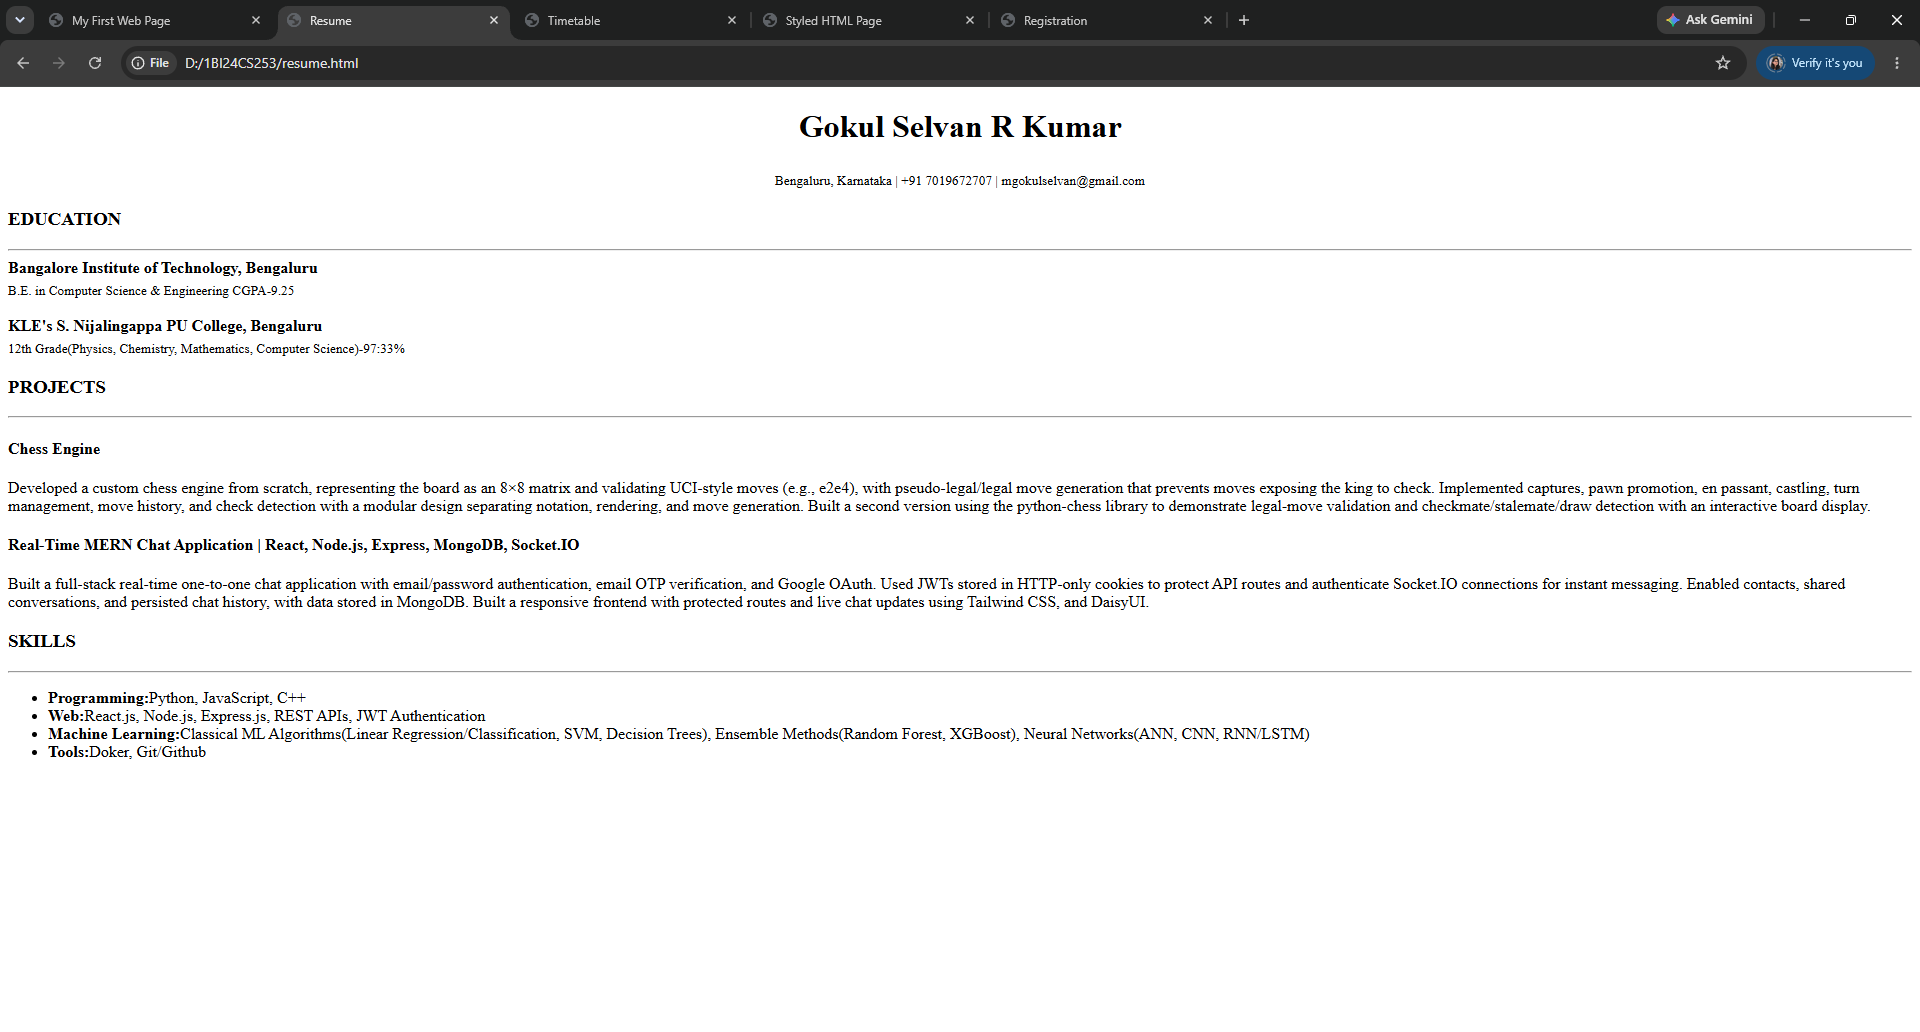
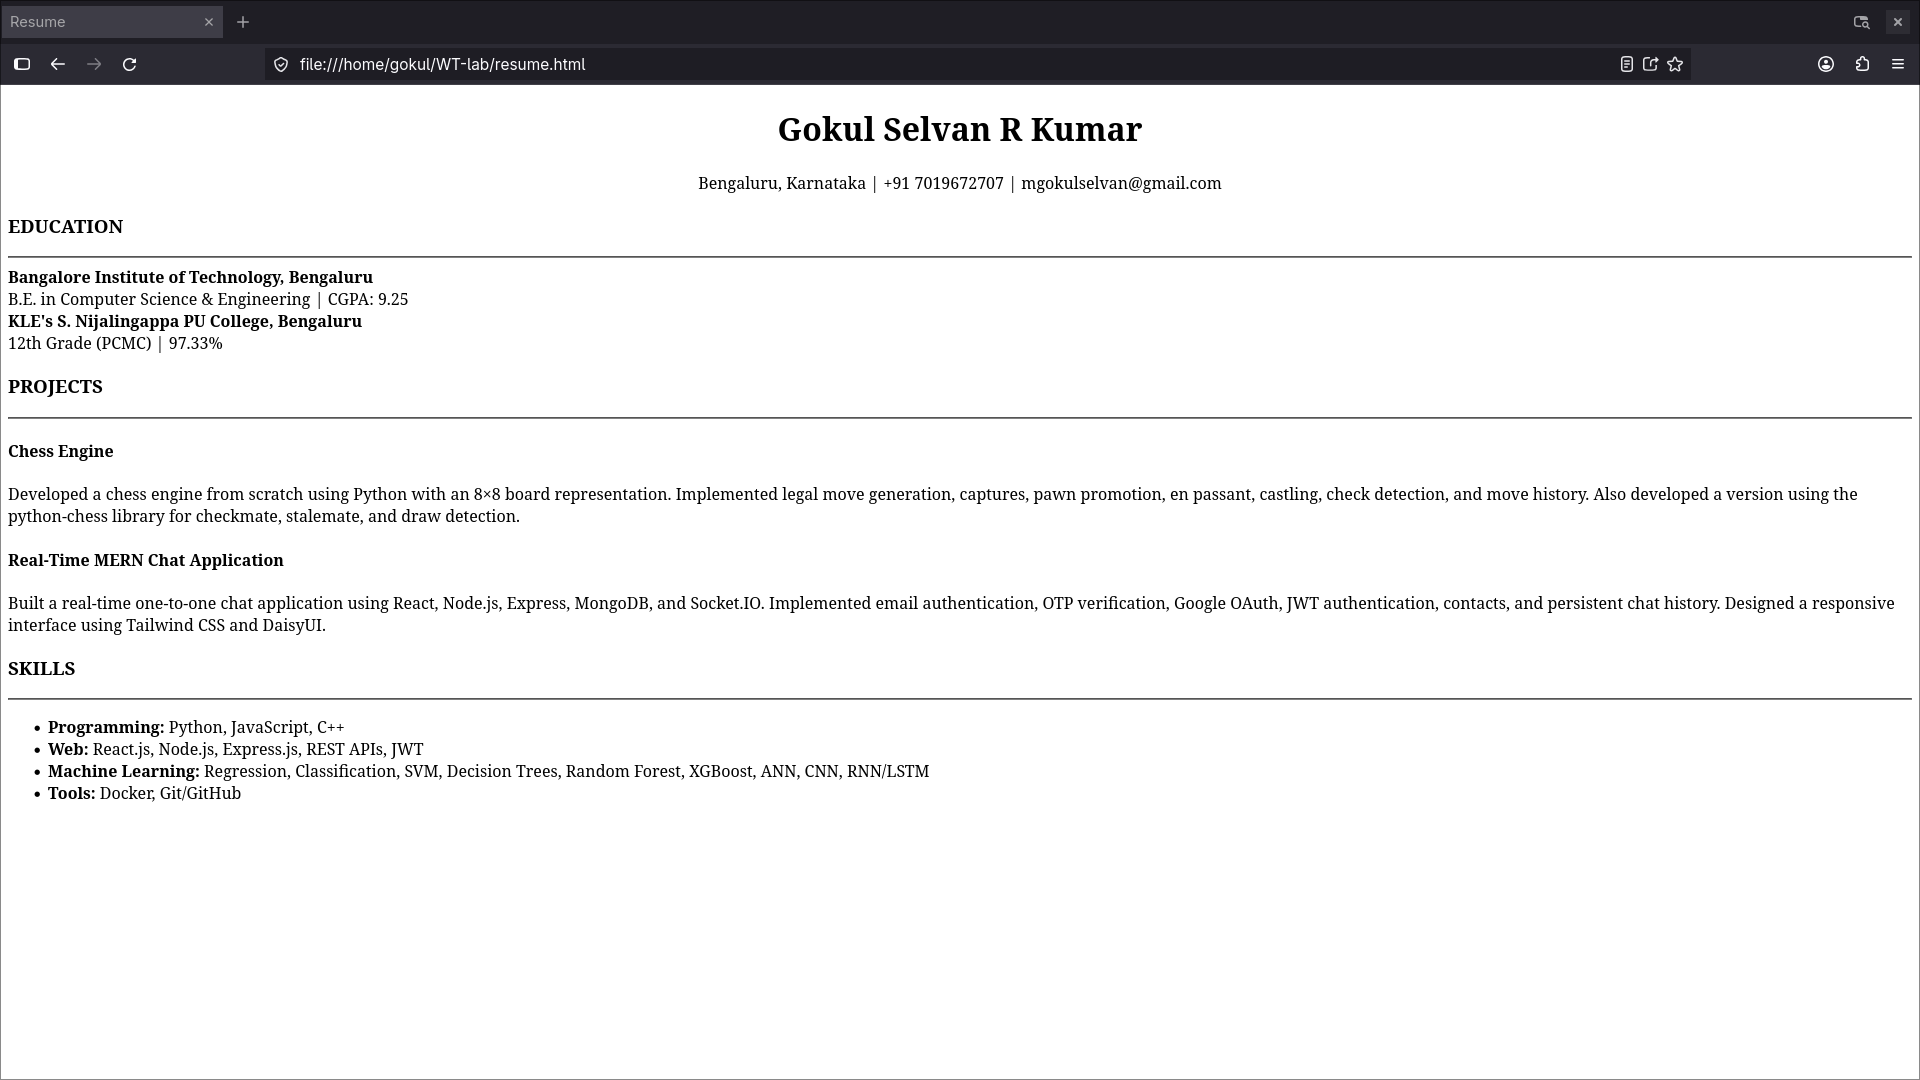
updated till lab 5

diff --git a/resume.html b/resume.html
@@ -1,51 +1,46 @@
-<!DOCTYPE html>
-<html lang="en">
+<html>
 <head>
-    <meta charset="UTF-8">
-    <meta name="viewport" content="width=device-width, initial-scale=1.0">
     <title>Resume</title>
 </head>
 <body>
-	<center>
-		<h1>Gokul Selvan R Kumar</h1>
-		<sub>Bengaluru, Karnataka | +91 7019672707 | mgokulselvan@gmail.com</sub>
-	</center>
-	<h3>EDUCATION</h3>
-	<hr/>
-	<b>Bangalore Institute of Technology, Bengaluru</b><br>
-	<sub>B.E. in Computer Science & Engineering </sub>
-	<sub>CGPA-9.25</sub><br/><br/>
-	<b>KLE's S. Nijalingappa PU College, Bengaluru</b><br>
-	<sub>12th Grade(Physics, Chemistry, Mathematics, Computer Science)-97:33%</sub>
 
-	<h3>PROJECTS</h3>
-	<hr/>
-	<h4>Chess Engine</h4>
-	<p>
-	Developed a custom chess engine from scratch, representing the board as an 8×8 matrix and validating UCI-style moves (e.g.,
-	e2e4), with pseudo-legal/legal move generation that prevents moves exposing the king to check.
-	Implemented captures, pawn promotion, en passant, castling, turn management, move history, and check detection with a
-	modular design separating notation, rendering, and move generation.
-	Built a second version using the python-chess library to demonstrate legal-move validation and checkmate/stalemate/draw
-	detection with an interactive board display.
-	</p>
+<center>
+    <h1>Gokul Selvan R Kumar</h1>
+    Bengaluru, Karnataka | +91 7019672707 | mgokulselvan@gmail.com
+</center>
 
-	<h4>Real-Time MERN Chat Application | React, Node.js, Express, MongoDB, Socket.IO</h4>
-	<p>
-	Built a full-stack real-time one-to-one chat application with email/password authentication, email OTP verification, and Google
-	OAuth.
-	Used JWTs stored in HTTP-only cookies to protect API routes and authenticate Socket.IO connections for instant messaging.
-	Enabled contacts, shared conversations, and persisted chat history, with data stored in MongoDB.
-	Built a responsive frontend with protected routes and live chat updates using Tailwind CSS, and DaisyUI.
-	</p>
+<h3>EDUCATION</h3>
+<hr>
 
-	<h3>SKILLS</h3>
-	<hr/>
-	<ul>
-		<li><b>Programming:</b>Python, JavaScript, C++</li>
-		<li><b>Web:</b>React.js, Node.js, Express.js, REST APIs, JWT Authentication</li>
-		<li><b>Machine Learning:</b>Classical ML Algorithms(Linear Regression/Classification, SVM, Decision Trees), Ensemble Methods(Random Forest, XGBoost), Neural Networks(ANN, CNN, RNN/LSTM)</li>
-		<li><b>Tools:</b>Doker, Git/Github</li>
-	</ul>
+<b>Bangalore Institute of Technology, Bengaluru</b><br/> B.E. in Computer Science & Engineering | CGPA: 9.25
+<br>
+<b>KLE's S. Nijalingappa PU College, Bengaluru</b><br/> 12th Grade (PCMC) | 97.33%
+
+<h3>PROJECTS</h3>
+<hr>
+<h4>Chess Engine</h4>
+<p>
+Developed a chess engine from scratch using Python with an 8×8 board representation.
+Implemented legal move generation, captures, pawn promotion, en passant, castling, check detection, and move history.
+Also developed a version using the python-chess library for checkmate, stalemate, and draw detection.
+</p>
+
+<h4>Real-Time MERN Chat Application</h4>
+<p>
+Built a real-time one-to-one chat application using React, Node.js, Express, MongoDB, and Socket.IO.
+Implemented email authentication, OTP verification, Google OAuth, JWT authentication, contacts, and persistent chat history.
+Designed a responsive interface using Tailwind CSS and DaisyUI.
+</p>
+
+<h3>SKILLS</h3>
+<hr>
+
+<ul>
+    <li><b>Programming:</b> Python, JavaScript, C++</li>
+    <li><b>Web:</b> React.js, Node.js, Express.js, REST APIs, JWT</li>
+    <li><b>Machine Learning:</b> Regression, Classification, SVM, Decision Trees, Random Forest, XGBoost, ANN, CNN, RNN/LSTM</li>
+    <li><b>Tools:</b> Docker, Git/GitHub</li>
+</ul>
+
 </body>
 </html>

diff --git a/table.html b/table.html
@@ -2,11 +2,10 @@
 	<head>
 		<title>Timetable</title>
 		<style>
-			@import url('https://fonts.googleapis.com/css2?family=Roboto:ital,wght@0,100..900;1,100..900&display=swap');
 			* {
 				box-sizing: border-box;
 				text-align: center;
-				font-family: "Roboto", serif;
+				font-family: Fantasy , sans-serif;
 			}
 
 			h1{
@@ -48,16 +47,16 @@
 				background: #cbd5e1;
 			}
 
-			.evs { background: #d9f2e6; }
-			.wt-lab { background: #fff3cd; }
-			.rm { background: #e3f0ff; }
-			.ai { background: #e3f7e8; }
-			.se { background: #eee7ff; }
-			.toc { background: #fff0df; }
-			.cns { background: #e2f8fa; }
-			.project { background: #f8e6fc; }
-			.yoga { background: #eeeeee; }
-			.break { background: #fbe4e4; }
+.evs { background: #d4a373; }
+.wt-lab { background: #a8dadc; }
+.rm { background: #dda15e; }
+.ai { background: #ccd5ae; }
+.se { background: #b8b8d1; }
+.toc { background: #f2c6a0; }
+.cns { background: #9ec5ab; }
+.project { background: #e9b3c2; }
+.yoga { background: #d0d0d0; }
+.break { background: #c9ada7; }
 		</style>
 	</head>
 	<body>
@@ -82,18 +81,11 @@
 			<tbody>
 				<tr>
 					<th>Monday</th>
-					<td></td>
-					<td></td>
+					<td></td><td></td>
 					<td rowspan="6" class="break">Tea Break</td>
 					<td class="evs">EVS<br>CHS<br>Online</td>
-					<td></td>
-					<td></td>
-					<td></td>
-					<td></td>
-					<td></td>
-					<td></td>
+					<td></td><td></td><td></td><td></td><td></td><td></td>
 				</tr>
-
 				<tr>
 					<th>Tuesday</th>
 					<td colspan="2" class="wt-lab">WT Lab<br>D3+D4<br>503</td>
@@ -109,8 +101,7 @@
 				<tr>
 					<th>Wednesday</th>
 					<td colspan="2" class="project">Mini Project</td>
-					<td></td>
-					<td></td>
+					<td></td><td></td>
 					<td class="toc">TOC<br>NT<br>521</td>
 					<td class="ai">AI<br>SL<br>521</td>
 					<td class="se">SE<br>GR<br>521</td>
@@ -124,10 +115,7 @@
 					<td class="toc">TOC<br>NT<br>525</td>
 					<td class="se">SE<br>GR<br>525</td>
 					<td class="cns">CNS<br>GHS<br>525</td>
-					<td></td>
-					<td></td>
-					<td></td>
-					<td></td>
+					<td></td><td></td><td></td><td></td>
 				</tr>
 
 				<tr>
@@ -139,19 +127,14 @@
 					<td></td>
 					<td class="rm">RM<br>MNS<br>521</td>
 					<td class="ai">AI<br>SL<br>521</td>
-					<td></td>
-					<td></td>
+					<td></td><td></td>
 				</tr>
 
 				<tr>
 					<th>Saturday</th>
-					<td></td>
-					<td></td>
+					<td></td><td></td>
 					<td colspan="3" class="project">Mini Project</td>
-					<td></td>
-					<td></td>
-					<td></td>
-					<td></td>
+					<td></td><td></td><td></td><td></td>
 				</tr>
 			</tbody>
 

diff --git a/newpaper.html b/newpaper.html
@@ -1,0 +1,98 @@
+<!DOCTYPE html>
+<html>
+<head>
+<title>Newspaper</title>
+<style>
+body {
+background-color: #f5f5dc;
+font-family: Arial;
+}
+header {
+background-color: navy;
+color: white;
+text-align: center;
+padding: 15px;
+}
+section {
+background-color: lightblue;
+color: darkblue;
+padding: 15px;
+}
+article {
+background-color: white;
+color: black;
+padding: 10px;
+margin: 10px;
+}
+aside {
+background-color: lightyellow;
+color: brown;
+padding: 10px;
+}
+
+figure {
+background-color: lightgreen;
+color: darkgreen;
+padding: 10px;
+text-align: center;
+}
+table {
+background-color: pink;
+color: darkred;
+padding: 10px;
+margin: auto;
+}
+footer {
+background-color: gray;
+color: white;
+text-align: center;
+padding: 10px;
+}
+</style>
+</head>
+<body>
+<header>
+<h1>DAILY NEWS</h1>
+<p>Today's Latest News</p>
+</header>
+<section>
+<h2>National News</h2>
+<article>
+<h3>India Makes Progress in Technology</h3>
+<p>India is making rapid progress in technology and digital services.</p>
+</article>
+<article>
+<h3>Education News</h3>
+<p>Many students are using modern technology for better education.</p>
+</article>
+</section>
+<aside>
+
+<h3>Quick News</h3>
+<p>Sports and weather updates are available here.</p>
+</aside>
+<figure>
+<h3>News Figure</h3>
+<p>Add Newspaper Image</p>
+<figcaption>Today's News</figcaption>
+</figure>
+<h2 align="center">Sports Results</h2>
+<table border="1">
+<tr>
+<th>Sport</th>
+<th>Winner</th>
+</tr>
+<tr>
+<td>Cricket</td>
+<td>India</td>
+</tr>
+<tr>
+<td>Football</td>
+<td>Brazil</td>
+</tr>
+</table>
+<footer>
+<p>&copy 2026 Daily News | All Rights Reserved</p>
+</footer>
+</body>
+</html>

diff --git a/ssres.html b/ssres.html
@@ -1,0 +1,64 @@
+<html>
+<head>
+    <title>My First Web Page</title>
+</head>
+
+<body>
+
+<center>
+<h1>Gokul Selvan R Kumar</h1>
+<p>B.E. Computer Science and Engineering</p>
+</center>
+
+<marquee>Basic HTML Tags</marquee>
+
+<hr>
+
+<h2>Career Objective</h2>
+<p>
+To improve my programming skills and develop useful software applications.
+</p>
+
+<h3>Education</h3>
+<p>
+Bangalore Institute of Technology - B.E. CSE - CGPA: 9.25<br>
+KLE's S. Nijalingappa PU College - 12th - 97.33%
+</p>
+
+<h4>Skills</h4>
+<p>
+<b>Programming:</b> Python, C++, JavaScript<br>
+<b>Web:</b> HTML, CSS, React, Node.js
+</p>
+
+<h5>Projects</h5>
+<p>
+<b>Chess Engine:</b> Python chess engine with move generation and check detection.<br>
+<b>Chat Application:</b> Real-time chat app using React, Node.js, MongoDB and Socket.IO.
+</p>
+
+<h6>Personal Information</h6>
+
+<pre>
+Name     : Gokul Selvan R Kumar
+Location : Bengaluru
+Course   : B.E. CSE
+</pre>
+
+<blockquote>
+"Always keep learning and improving."
+</blockquote>
+
+<p>
+<b>Strong</b> &nbsp;
+<i>Emphasized</i> &nbsp;
+<u>Underlined</u> &nbsp;
+<mark>Highlighted</mark>
+</p>
+
+<hr>
+
+<center>Thank You</center>
+
+</body>
+</html>

diff --git a/lab3/index.html b/lab3/index.html
@@ -10,7 +10,7 @@
     <p>This is a paragraph demonstration using basic text styles applied by css</p>
 
     <div>
-        This is styled <strong>div</strong> element with padding and a light border inside the div , we can also use <span> span elements</span>that have their own style like bold and orangea tetx
+        This is styled <strong>div</strong> element with padding and a light border inside the div , we can also use <span> span elements</span>that have their own style like bold and orange text
     </div>
     <p>current time<time>10:30AM</time></p>
     <img src="https://bit-bangalore.edu.in/assets/images/lifebit/bit-campus.jpg" alt="Placeholder image">
